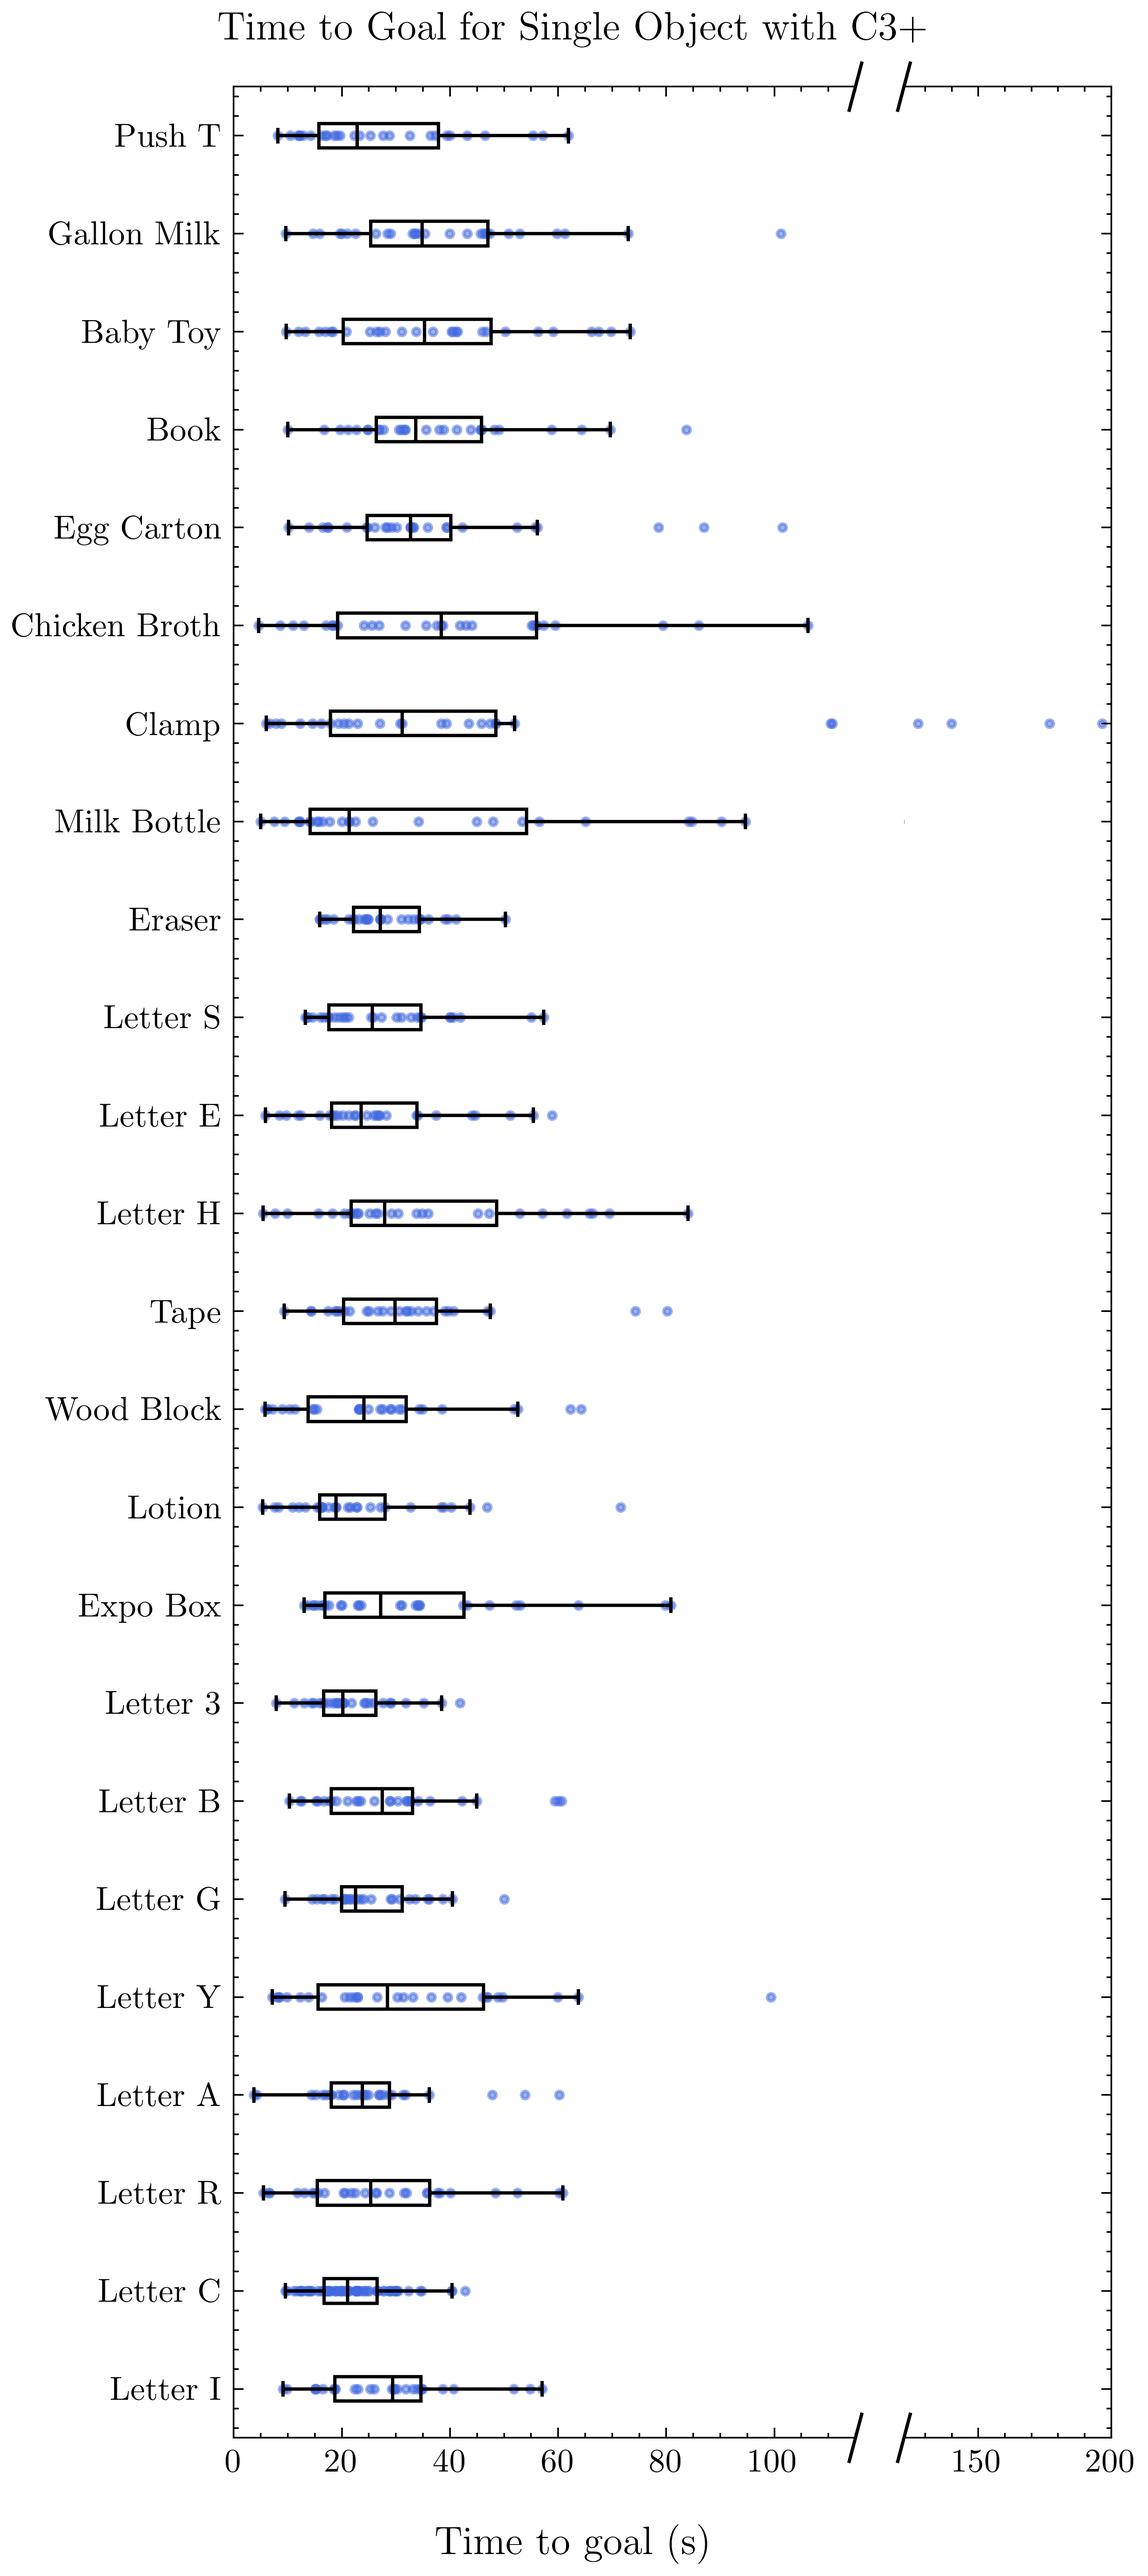
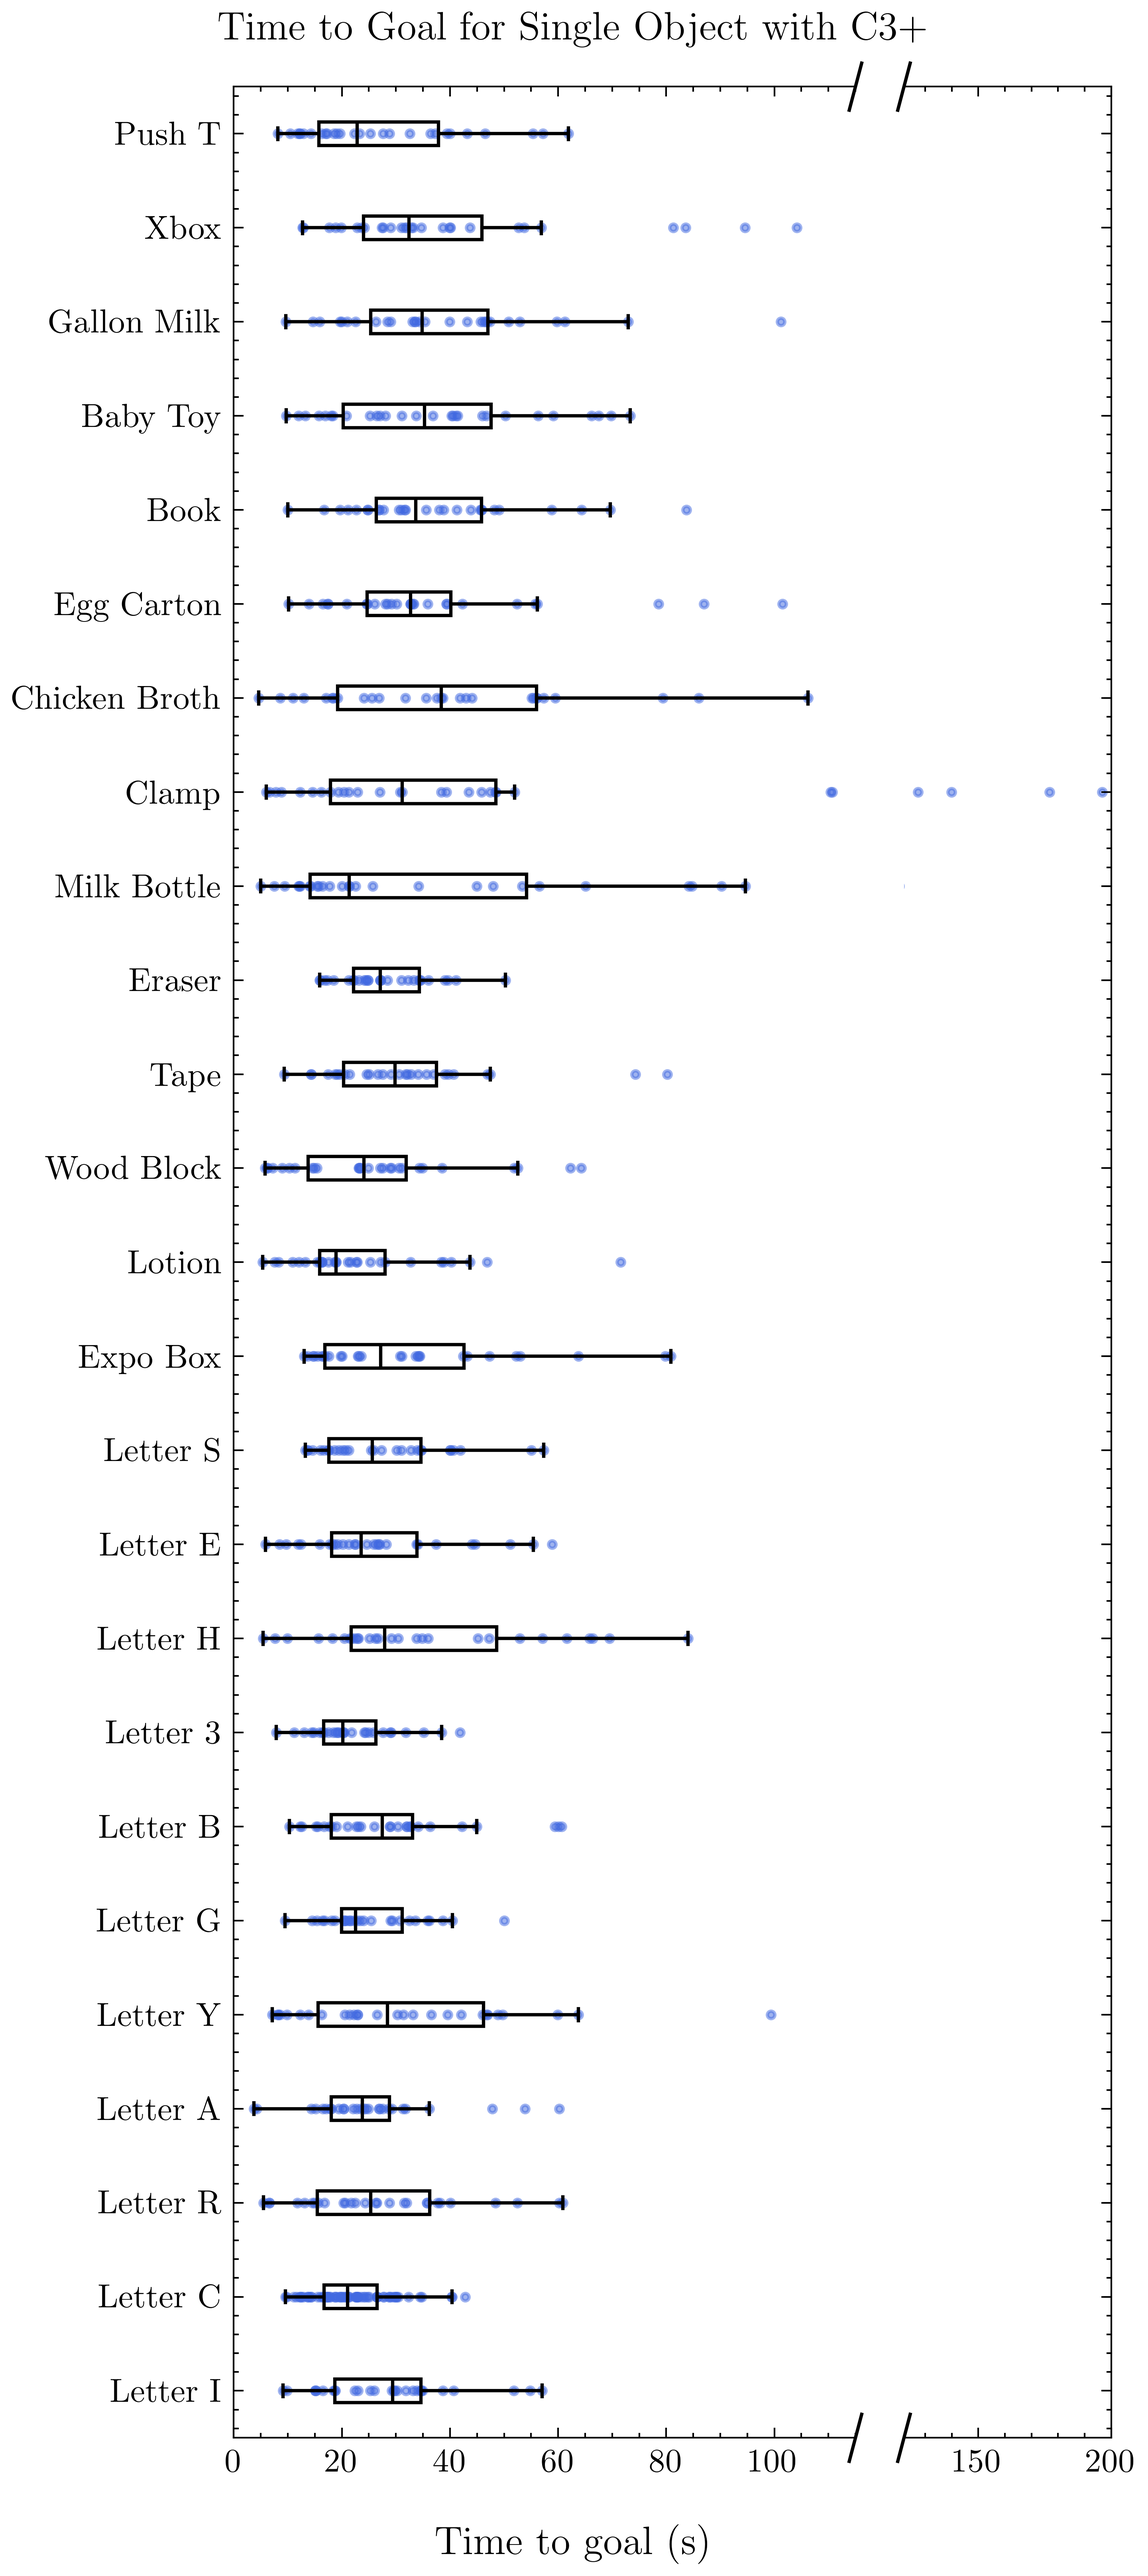
Update single object data and re-generate plots

diff --git a/examples/sampling_c3/analyze_benchmark_data.py b/examples/sampling_c3/analyze_benchmark_data.py
@@ -1,0 +1,37 @@
+import numpy as np
+
+log_names = {
+    "single": "single_obj_hwlog000001_09_07_25",
+    "two": "two_obj_hwlog000035_09_04_25",
+    "three": "three_obj_hwlog000021_09_10_25",
+    "four": "four_obj_hwlog000042_09_11_25",
+}
+
+if __name__ == "__main__":
+    log_dir = "/home/hienbui/git/dairlib"
+    controller_types = ["c3", "c3+"]
+    scenarios = ["single", "two", "three", "four"]
+
+    for controller_type in controller_types:
+        for scenario in scenarios:
+            qp_solve_times = np.load(
+                f"{log_dir}/{controller_type}_qp_solve_times_{log_names[scenario]}.npy"
+            )
+            projection_solve_times = np.load(
+                f"{log_dir}/{controller_type}_projection_solve_times_{log_names[scenario]}.npy"
+            )
+            mask = (np.arange(1, len(qp_solve_times)+1) % 4 != 0)
+            filtered_qp_solve_times = qp_solve_times[mask]
+
+            print(f"Controller type: {controller_type}, Scenario: {scenario}, Number of samples: {len(filtered_qp_solve_times)}")
+
+            print(
+                "QP solve times [mean, std, min, max]: "
+                f"{filtered_qp_solve_times.mean():.3f}, {filtered_qp_solve_times.std():.3f}, "
+                f"{filtered_qp_solve_times.min():.3f}, {filtered_qp_solve_times.max():.3f}"
+            )
+            print(
+                "Projection solve times [mean, std, min, max]: "
+                f"{projection_solve_times.mean():.3f}, {projection_solve_times.std():.3f}, "
+                f"{projection_solve_times.min():.3f}, {projection_solve_times.max():.3f}"
+            )

diff --git a/examples/sampling_c3/c3plus_performance_figure.py b/examples/sampling_c3/c3plus_performance_figure.py
@@ -7,10 +7,12 @@ plt.style.use(['science'])
 
 object_names = ["Letter I", "Letter C", "Letter R", "Letter A",
                 "Letter Y", "Letter G", "Letter B", "Letter 3",
+                "Letter H", "Letter E", "Letter S",
                 "Expo Box", "Lotion", "Wood Block", "Tape",
-                "Letter H", "Letter E", "Letter S", "Eraser", "Milk Bottle",
+                "Eraser", "Milk Bottle",
                 "Clamp", "Chicken Broth", "Egg Carton", "Book",
-                "Baby Toy", "Gallon Milk", "Push T"]
+                "Baby Toy", "Gallon Milk", "Xbox", "Push T"]
+
 time_to_goal_dict = {
     "Letter I": np.array(
         [25.757018, 29.114636, 33.174714, 16.486989, 34.65505 , 30.222808,
@@ -251,6 +253,14 @@ time_to_goal_dict = {
           8.156285   ,25.274766   ,23.295628   ,11.82061    ,28.822678   ,19.092198,
          57.171497   ,18.564928   ,39.442278   ,37.31236    ,46.463339   ,36.40338742]
     ),
+    "Xbox": np.array(
+        [ 62.894928, 10.915822,  19.915158, 27.597123, 83.605054,
+          12.855497, 56.906219,  53.705217, 43.684693, 12.737488,
+          40.114951, 34.687578,  52.68694 , 39.964141, 81.28578,
+          22.8387  , 31.571843,  31.962357, 24.176806, 18.867526,
+          27.371348, 17.681364,  31.003389, 94.556216, 32.883328,
+          23.634579, 29.015133, 104.124353, 33.134581, 38.68076957]
+    )
 }
 
 time_to_goals = [time_to_goal_dict[obj_name].tolist()[2:] for obj_name in object_names]
